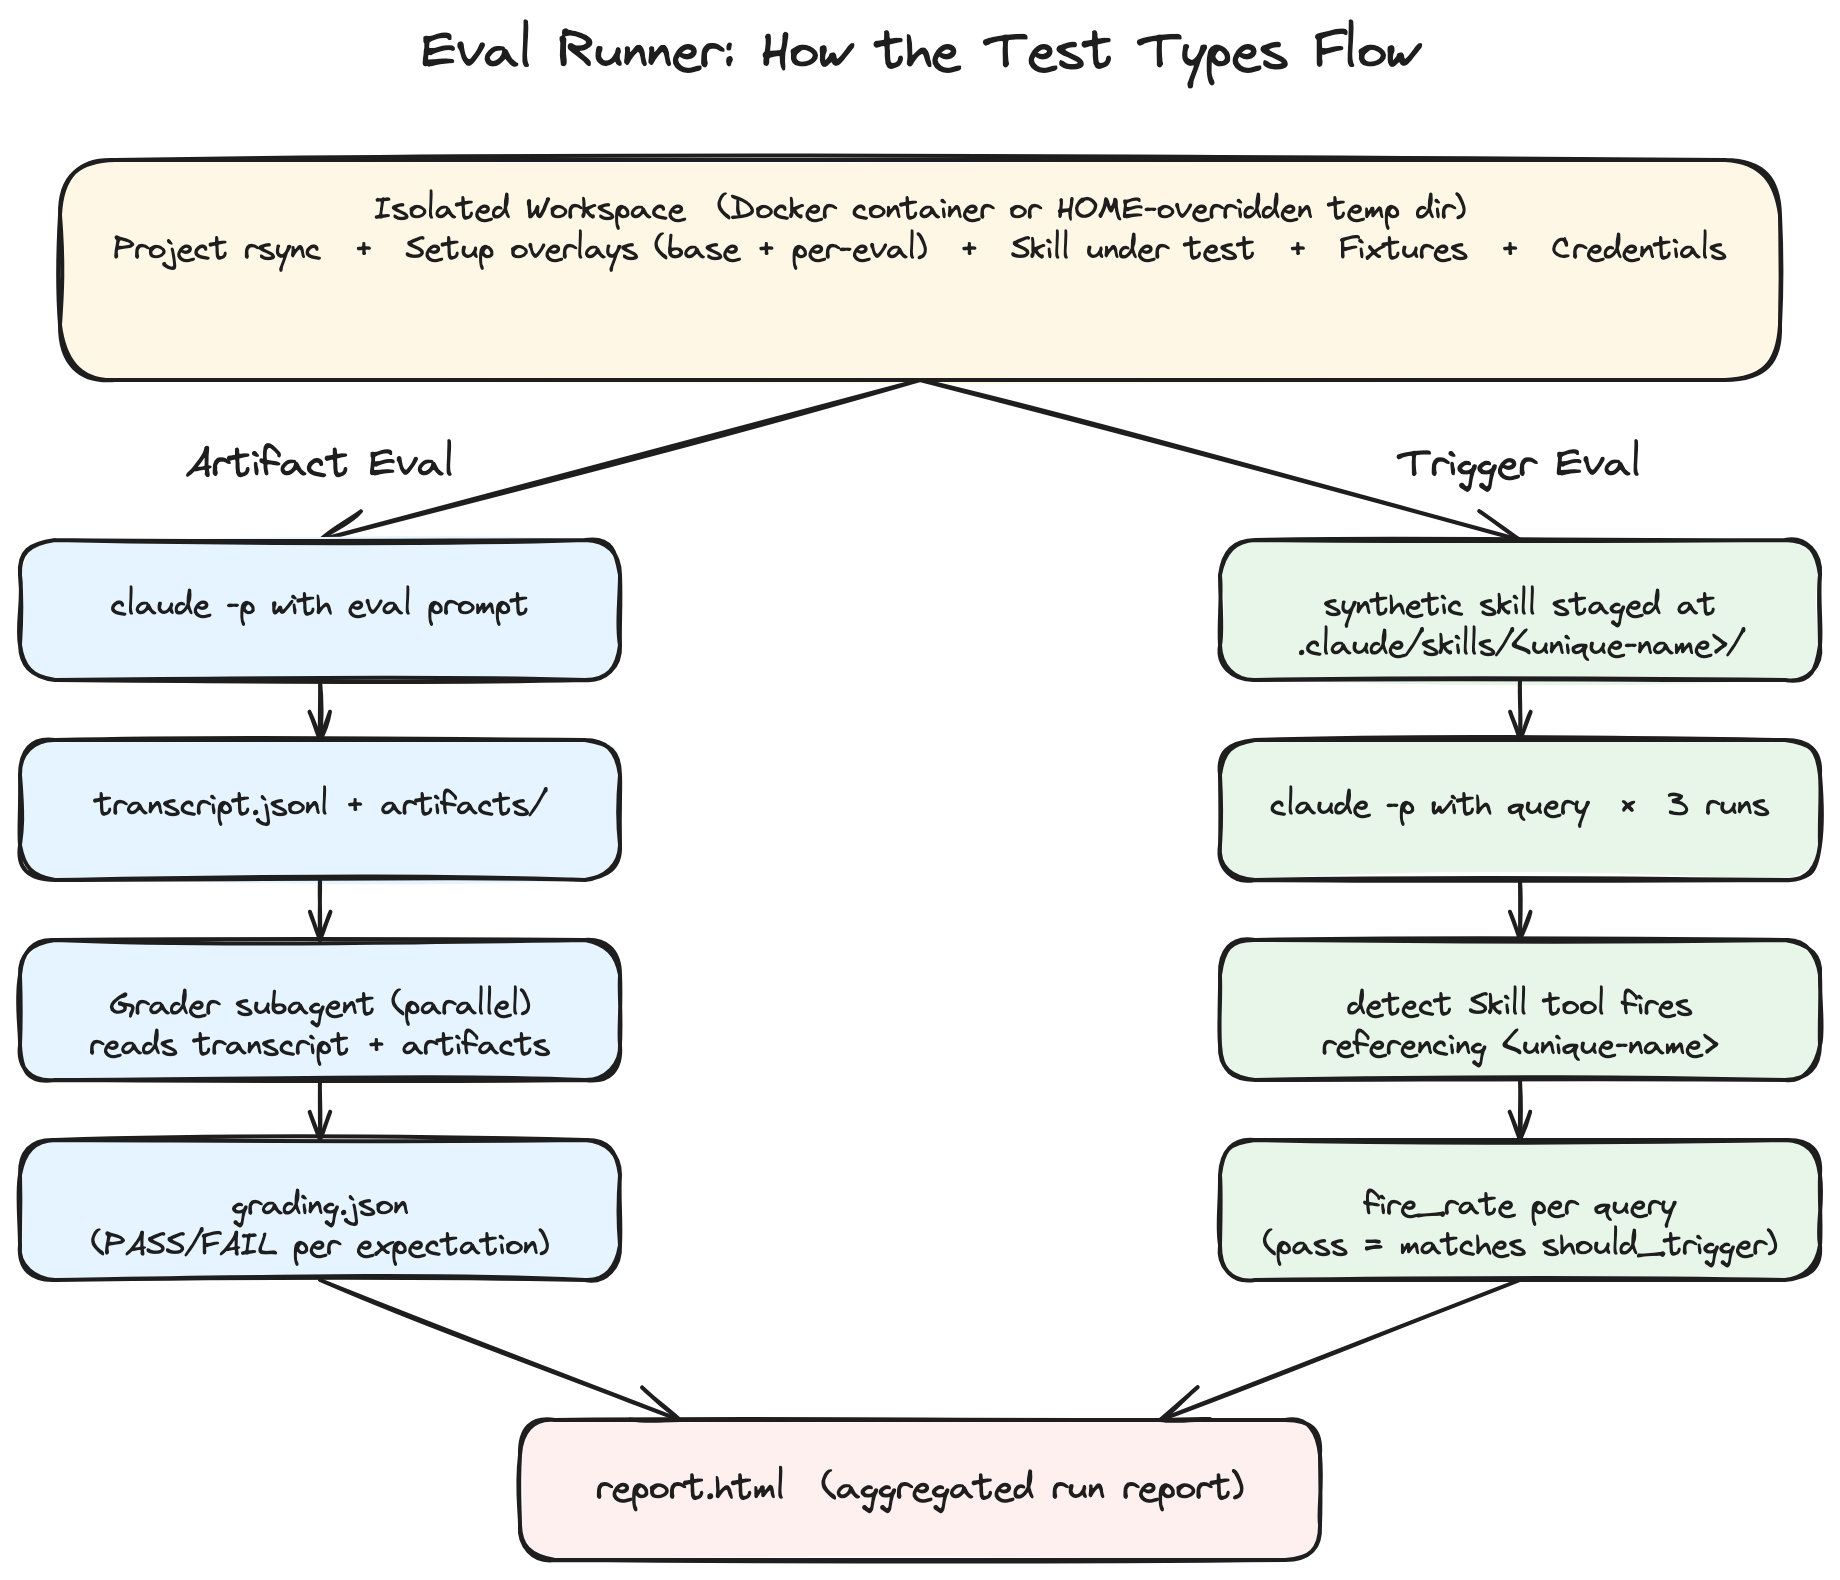
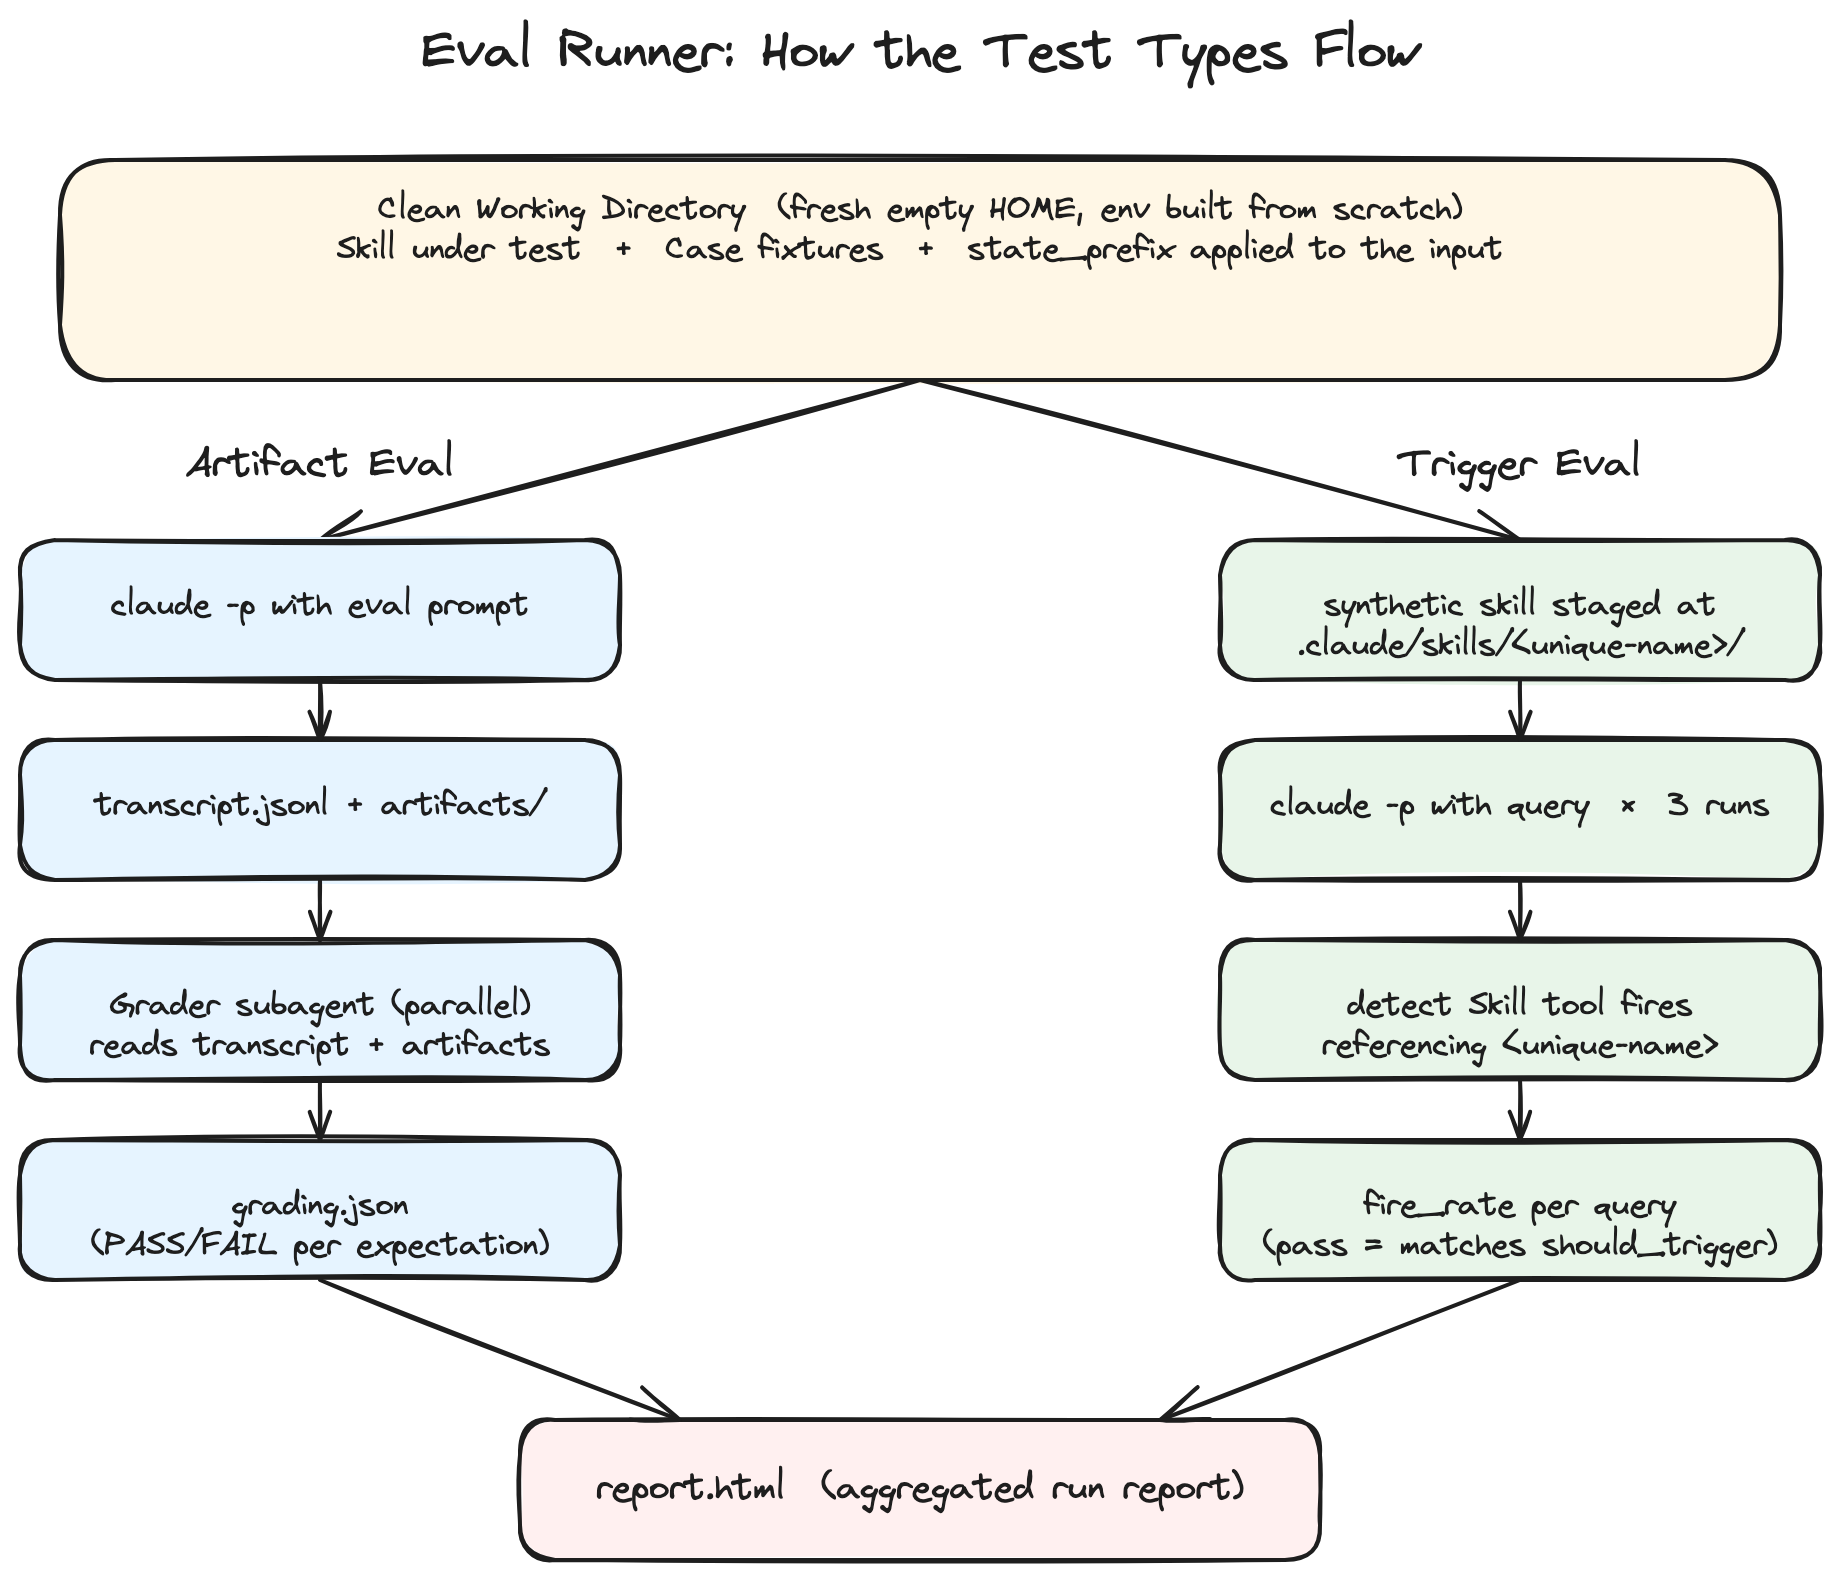
docs: remove stale Docker isolation from eval runner docs
The eval runner dropped Docker, PTY, keychain staging, and dual isolation in
the v2.1.0 rebuild, but the docs still described the old world.

- Delete the install-docker-for-evals how-to; it documented a Dockerfile,
  docker_setup.py, and references/isolation.md that no longer exist
- Describe the real isolation model (clean per-case cwd, env built from
  scratch with a fresh empty HOME and CLAUDE_CONFIG_DIR inside it)
- Drop the --isolation flag and the Choose Isolation step; the flag is gone
- Replace the Trigger Evals Need Docker caution with why host skills cannot
  leak now, and why substring matching is rejected
- Redraw the workspace box in eval-test-types and re-render the PNG; also
  drop rsync, setup overlays, and credential staging, none of which the
  runner does anymore
- Fix render.mjs pointing at excalidraw_render.html instead of render.html

Changed region(s): [[0.062, 0.1241, 0.8054, 0.1861], [0.8364, 0.1551, 0.9293, 0.1861]]

diff --git a/docs/how-to/run-evals-against-a-skill.md b/docs/how-to/run-evals-against-a-skill.md
@@ -20,12 +20,11 @@ Use the `bmad-eval-runner` skill to run a skill's evals in a clean workspace and
 :::note[Prerequisites]
 
 - The skill you want to evaluate, with `evals.json` and/or `triggers.json` defined
-- Either Docker Desktop installed (preferred) or willingness to run in best-effort local isolation. See [Install Docker for Evals](/how-to/install-docker-for-evals.md).
 - An Anthropic account authenticated through Claude Code (the runner reuses your existing credential)
 :::
 
 :::tip[Quick Path]
-Invoke the eval runner with the path to your skill: `bmad-eval-runner ./skills/my-skill`. The runner discovers your evals, picks isolation, runs everything in parallel, and tells you where the report lives.
+Invoke the eval runner with the path to your skill: `bmad-eval-runner ./skills/my-skill`. The runner discovers your evals, runs each case in its own clean working directory, and tells you where the run folder lives.
 :::
 
 ## Step 1: Confirm Eval Discovery
@@ -40,17 +39,9 @@ The runner looks for evals in this order, taking the first match:
 
 If discovery fails, the runner halts. It does not invent evals.
 
-## Step 2: Choose Isolation
+## Step 2: Know What Isolation You Get
 
-Pass `--isolation docker|local|auto`. Default is `auto`, which picks Docker when available and local when not.
-
-| Mode   | When to Use                                                              |
-| ------ | ------------------------------------------------------------------------ |
-| docker | Trigger evals (host skills can leak in local mode); reproducible runs    |
-| local  | Quick iteration when you have not installed Docker                       |
-| auto   | Default; lets the runner pick the best available option                  |
-
-The first time Docker is selected, the runner builds the `bmad-eval-runner:latest` image. This takes a few minutes once. Subsequent runs reuse the cached image.
+There is nothing to choose here. Every case runs in its own clean working directory with the skill under test staged into it, and the subprocess environment is built from scratch instead of inherited: `PATH`, a fresh empty `HOME` inside the case folder, `CLAUDE_CONFIG_DIR` inside that `HOME`, and the adapter's auth variable. Your global `CLAUDE.md`, your auto-memory, and your host-installed skills are all out of reach, including for trigger evals.
 
 ## Step 3: Pick Mode
 
@@ -67,7 +58,7 @@ Pass `--mode artifact|trigger|both`. Default is `both` if both eval files are fo
 Invoke the eval runner from your project. A typical invocation:
 
 ```bash
-bmad-eval-runner ./src/skills/my-skill --isolation docker --workers 8
+bmad-eval-runner ./src/skills/my-skill --workers 8
 ```
 
 The runner stages each eval's workspace, executes `claude -p` against the prompt, captures the stream-JSON transcript, and rsyncs any files the skill wrote. After all evals complete, it spawns a grader subagent per eval (in parallel) and aggregates the verdicts.
@@ -105,14 +96,13 @@ Run folders are never deleted automatically. Disk management is your call.
 - Pass `--eval-ids A1,B3` to run only specific evals while iterating
 - Pass `--workers 8` to parallelize aggressively (default is 4)
 - A specific eval can override the default timeout by setting `"timeout": 900` in its `evals.json` entry
-- For trigger evals, prefer Docker. Local mode can let host-installed skills bleed in via cwd-based discovery and bias the fire rate.
 
 ## A Worked Example
 
 The `bmad-product-brief` skill in the BMad Method repository (`bmad-code-org/BMAD-METHOD`) ships a complete eval suite at `evals/bmm-skills/bmad-product-brief/`. To run it end-to-end:
 
 ```bash
-bmad-eval-runner ./src/bmm-skills/1-analysis/bmad-product-brief --isolation docker --workers 8
+bmad-eval-runner ./src/bmm-skills/1-analysis/bmad-product-brief --workers 8
 ```
 
 The run produces 17 graded artifact evals (A1-A8 output grading, B1-B8 transcript grading, C1 configuration compliance), 15 trigger eval verdicts, and an aggregated HTML report. Use it as the model when writing evals for your own skills.

diff --git a/docs/explanation/why-bmad-eval-runner.md b/docs/explanation/why-bmad-eval-runner.md
@@ -7,7 +7,7 @@ The eval runner is built around a simple goal: produce results that reflect the 
 
 ## Isolation
 
-Every eval starts in a clean room. With Docker, the run executes inside a fresh container off `bmad-eval-runner:latest`. Without Docker, the runner falls back to a per-eval temp directory with `HOME` overridden so global memory and global `CLAUDE.md` cannot influence the result. Either way, two developers running the same eval get the same workspace state.
+Every eval starts in a clean room. Each case runs from its own working directory with the skill under test staged into it, and the subprocess environment is built from scratch rather than inherited: `PATH`, a fresh empty `HOME` inside the case folder, `CLAUDE_CONFIG_DIR` pointing inside that `HOME`, the adapter's auth variable, and nothing else. No container, no terminal emulation, no credential file staging. Two developers running the same eval get the same workspace state.
 
 Why this matters: skills are sensitive to context. Your global `~/.claude/CLAUDE.md`, your auto-memory, an ancestor `CLAUDE.md` in the project tree, cached MCP settings. All of these reach a default `claude -p` invocation. The eval should measure the skill, not the bench it was tested on.
 
@@ -35,4 +35,4 @@ After artifact runs complete, the runner spawns a grader subagent per eval (in p
 
 ## Next Steps
 
-For a step-by-step run, see [Run Evals Against a Skill](/how-to/run-evals-against-a-skill.md). For the complete eval file schema, see [Eval Format](/reference/eval-format.md). For why Docker matters, see [Install Docker for Evals](/how-to/install-docker-for-evals.md).
+For a step-by-step run, see [Run Evals Against a Skill](/how-to/run-evals-against-a-skill.md). For the complete eval file schema, see [Eval Format](/reference/eval-format.md).

diff --git a/docs/reference/eval-format.md b/docs/reference/eval-format.md
@@ -114,8 +114,8 @@ A query passes when:
 - `should_trigger=true` and `trigger_rate >= --trigger-threshold` (default 0.5)
 - `should_trigger=false` and `trigger_rate < --trigger-threshold`
 
-:::caution[Trigger Evals Need Docker]
-Local-mode trigger evals can be biased by host-installed skills that are discoverable via cwd-based skill discovery. The detector may see a real skill fire instead of the synthetic. Use Docker isolation for trigger evals whenever it is available.
+:::note[Only the Synthetic Skill Is Discoverable]
+Each query runs in a clean working directory under a fresh empty `HOME`, so host-installed skills cannot be discovered and fire in place of the synthetic one. The detector also counts only `tool_use` events naming the synthetic skill; whole-transcript substring matching is rejected, because the runtime's init event lists every discovered skill by name and would report a 100% trigger rate regardless of the description.
 :::
 
 ## Setup Overlays
